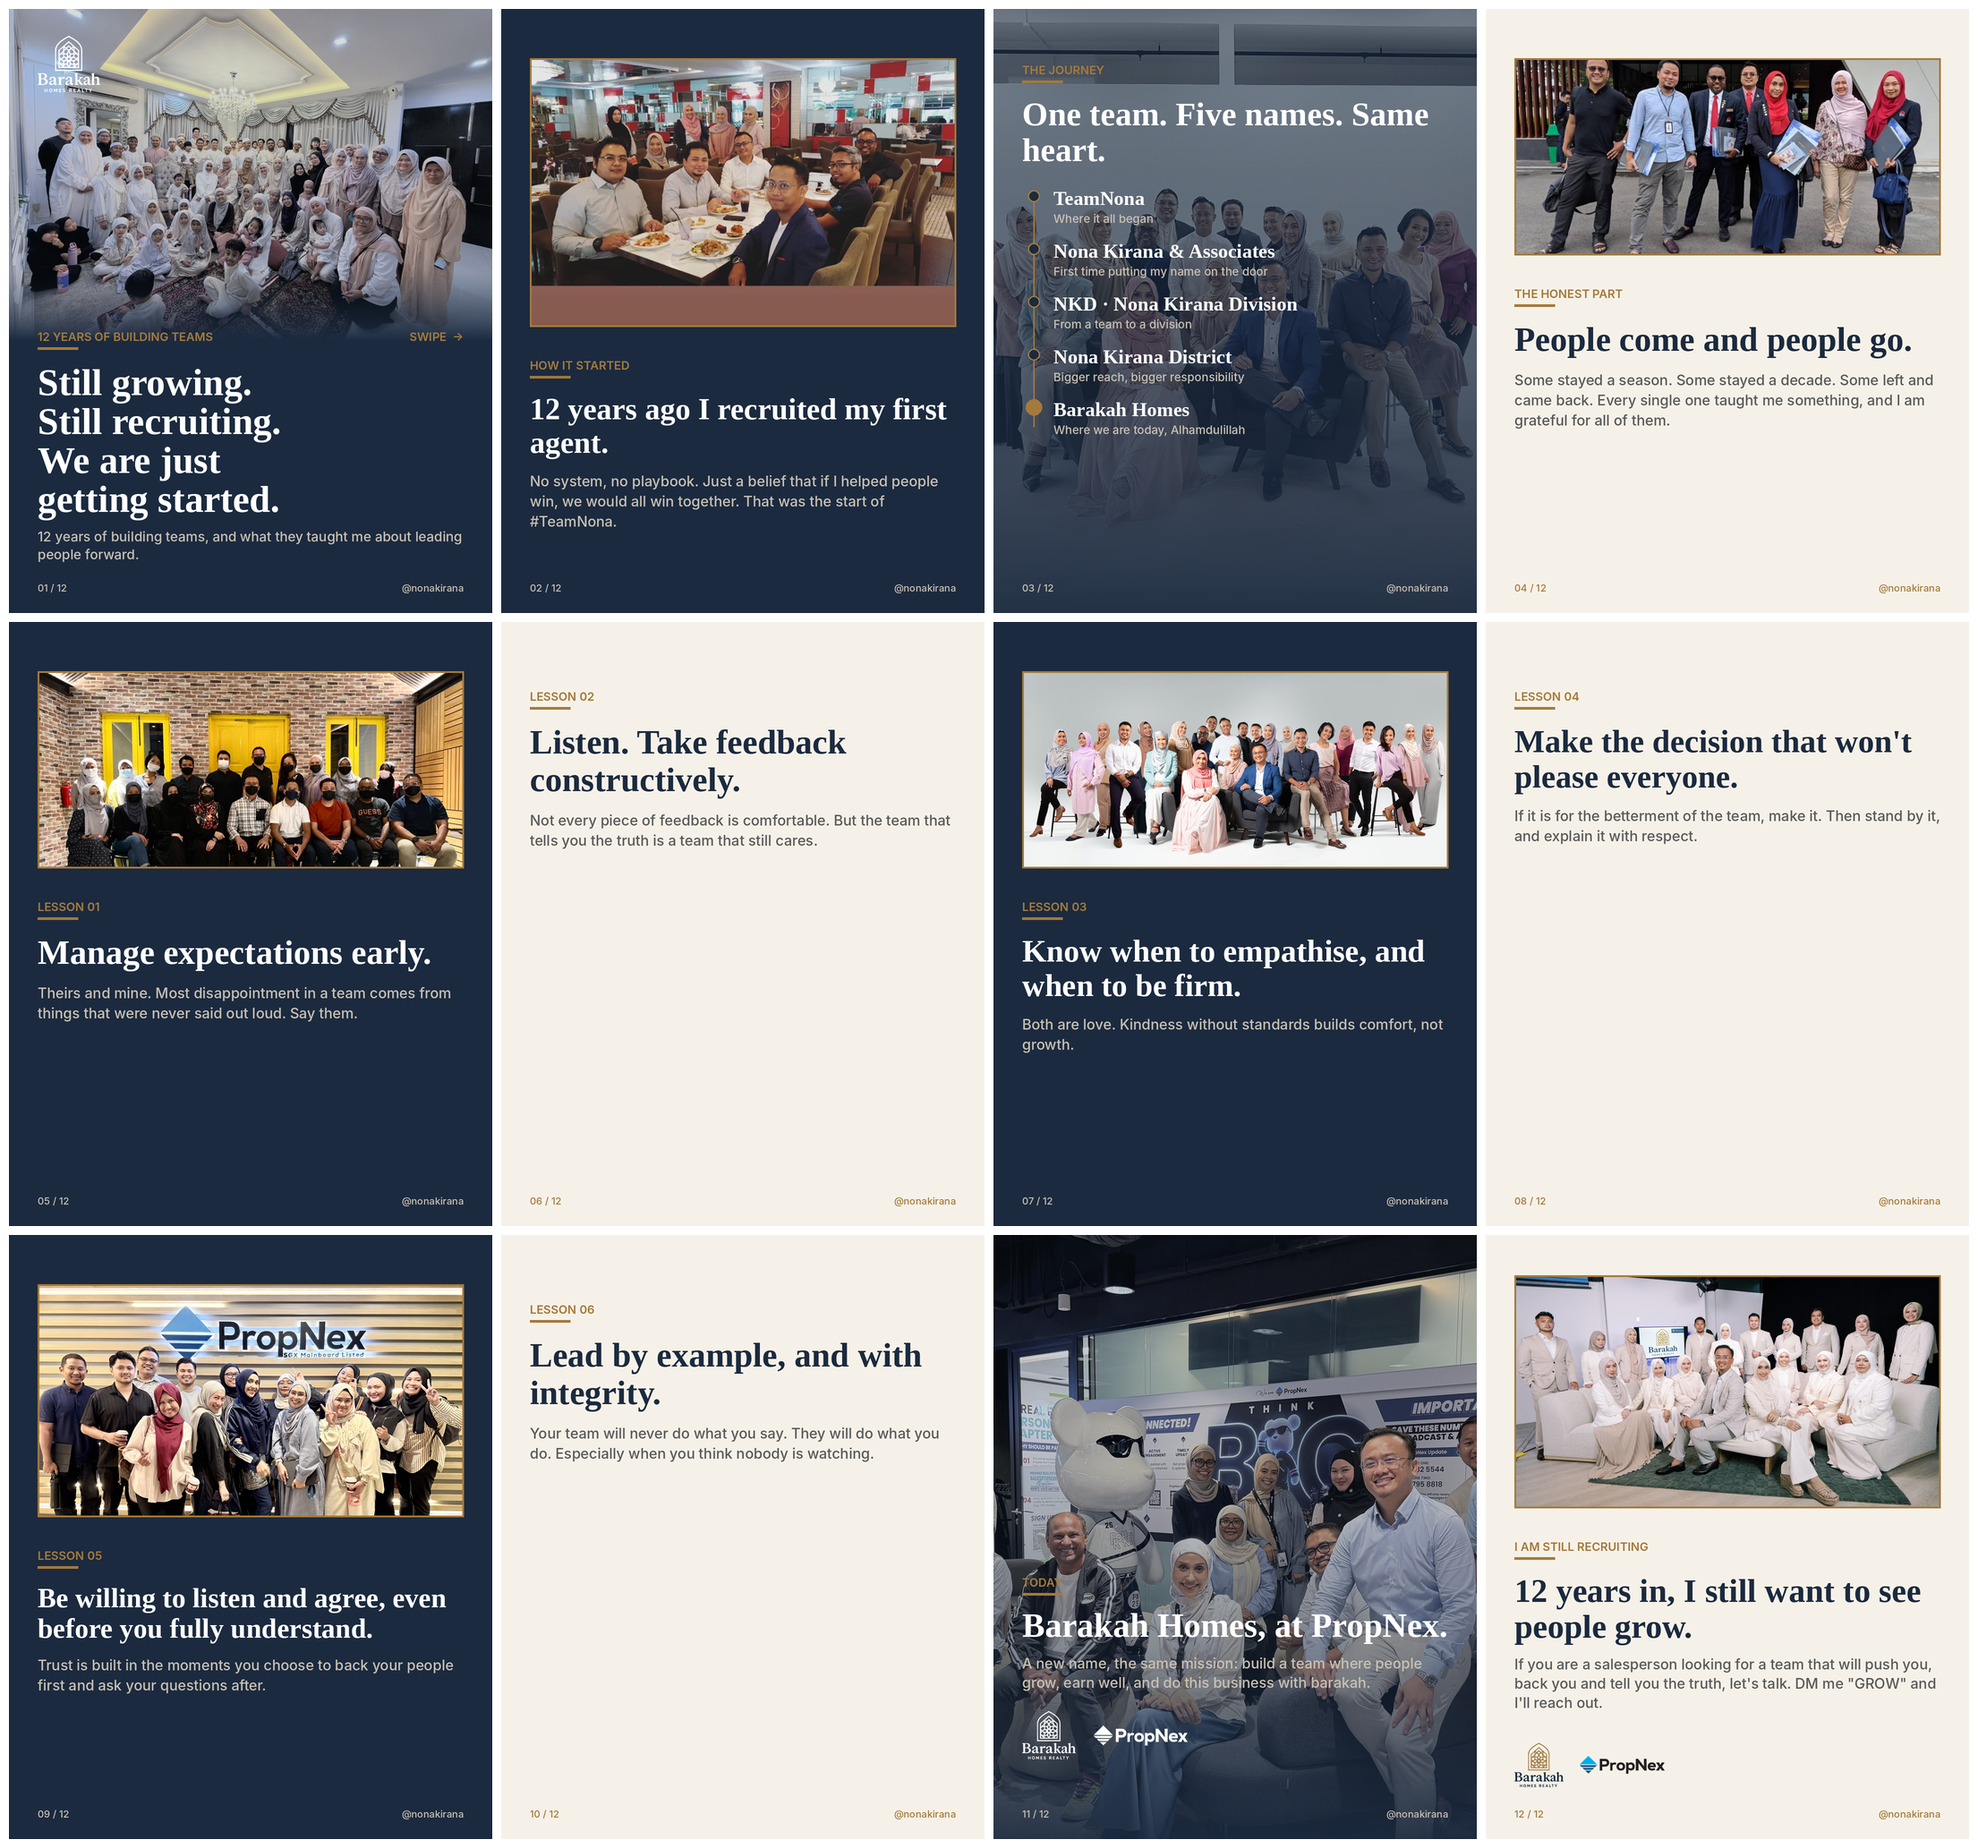
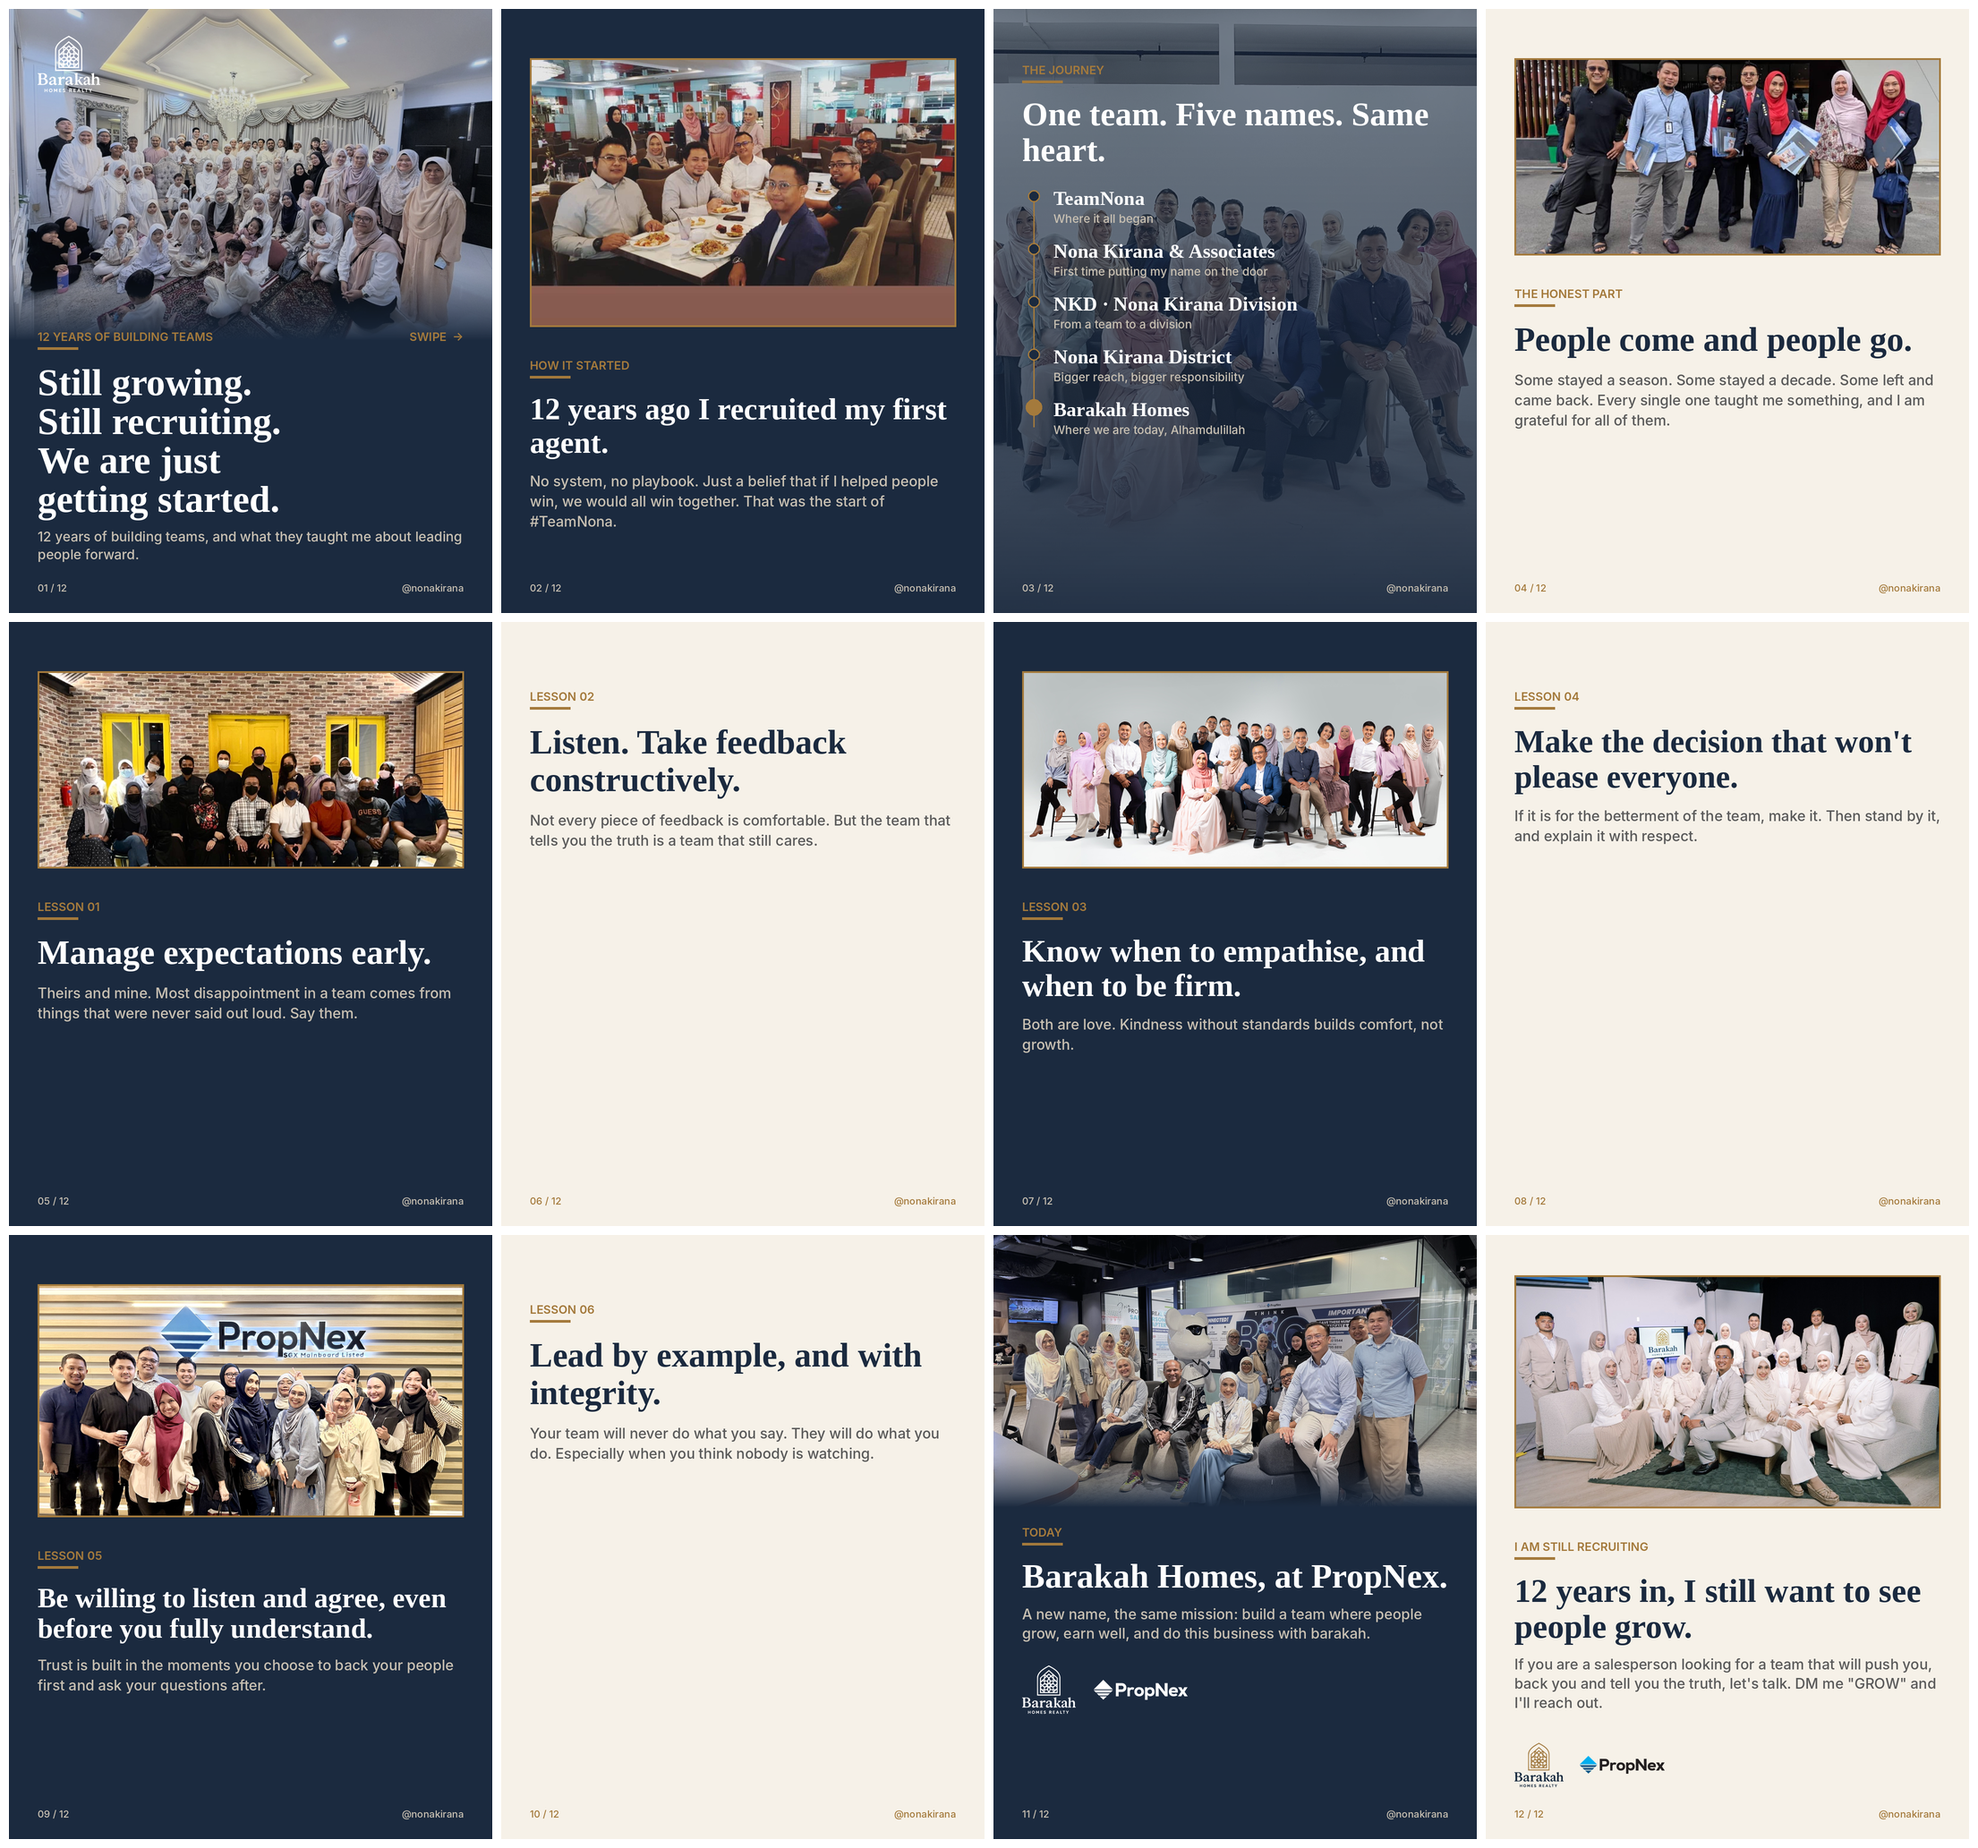
Show the full office photo on the Today slide so no faces are cropped
Claude-Session: https://claude.ai/code/session_016kRuLdfEYNqBubZ7ARvdxi

Changed region(s): [[0.4995, 0.6508, 0.7493, 0.9918]]

diff --git a/recruitment-carousel/make_carousel.py b/recruitment-carousel/make_carousel.py
@@ -229,18 +229,27 @@ text_slide(10, "Lesson 06", "Lead by example, and with integrity.",
     "Your team will never do what you say. They will do what you do. Especially when you think nobody is watching.",
     bg=CREAM, hl_size=76)
 
-# 11 — today: Barakah Homes
-base = cover_crop(load("propnex-office.jpg"), W, H, (0.55, 0.5))
-img = gradient_overlay(base, top_alpha=60, bottom_alpha=240, start=0.3)
+# 11 — today: Barakah Homes. Full-width photo (nobody cropped) fading into navy.
+img = Image.new("RGBA", (W, H), NAVY + (255,))
+ph = load("propnex-office.jpg").convert("RGB")
+ph = ph.resize((W, round(ph.height * W / ph.width)), Image.LANCZOS)   # 1080 x ~608, whole photo
+PH = ph.height
+img.paste(ph, (0, 0))
+fade = Image.new("RGBA", (W, H), NAVY + (0,))
+fd = ImageDraw.Draw(fade)
+fd.rectangle((0, 0, W, PH), fill=NAVY + (30,))
+for i in range(120):
+    fd.line((0, PH - 120 + i, W, PH - 120 + i), fill=NAVY + (30 + int(225 * (i / 120) ** 1.3),))
+img = Image.alpha_composite(img, fade)
 d = ImageDraw.Draw(img)
-y = 760
+y = PH + 40
 d.text((64, y), "TODAY", font=font(SANS_B, 26), fill=GOLD); y += 40
-gold_rule(d, 64, y); y += 30
+gold_rule(d, 64, y); y += 32
 y = draw_par(d, "Barakah Homes, at PropNex.", font(SERIF, 76), 64, y, W - 128, WHITE, lh=1.1)
 y += 24
 y = draw_par(d, "A new name, the same mission: build a team where people grow, earn well, and do this business with barakah.",
              font(SANS, 32), 64, y, W - 128, MUTED, lh=1.35)
-y += 40
+y += 48
 h = logo(img, "barakah-logo.png", 64, y, 120, white=True)
 logo(img, "propnex-logo.png", 64 + 120 + 40, y + h // 2 - 22, 210, white=True)
 footer(d, 11)
